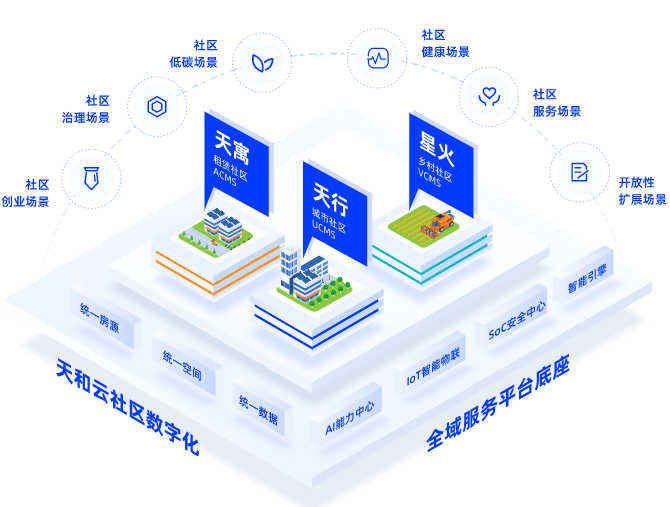
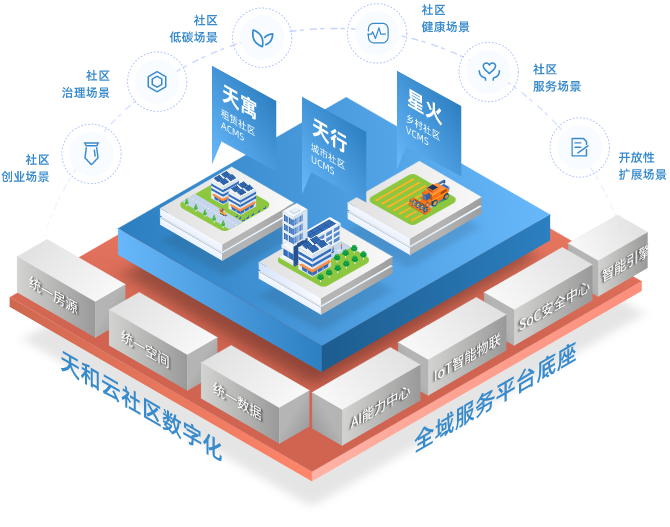
00

diff --git a/css/gw.css b/css/gw.css
@@ -710,7 +710,7 @@ header {
   display: block;
   margin-top: -5px;
 }
-#tab-list{ width: 720px; position: relative;}
+#tab-list{ width: 670px;height: 507px; position: relative;}
  
 #ul1{height: 32px;position: absolute;right: 0;bottom:8px;font-size: 14px;display: flex;
   width: 160px;
@@ -718,7 +718,7 @@ header {
   justify-content: space-between;}
 #ul1 li{width:80px;display: inline-block;padding:0px 10px;line-height: 30px;text-align: center;border: 1px solid #c0d1ff; color:#666;background-color: #f7faff;}
 #ul1 li:hover{cursor: pointer;}
-#ul1 li.active{border: 1px solid #023aff; color:#023aff;background-color: #fff;} 
+#ul1 li.active{border: 1px solid #0067C0; color:#0067C0;background-color: #fff;} 
 #tab-list div{width: 100%;/* margin-top: 64px; */display: none;} 
 #tab-list .show{display: block;} #tab-list .hide{display: none;}
 
@@ -737,7 +737,7 @@ header {
   justify-content: space-between;}
 #ul2 li{width:80px;display: inline-block;padding:0px 10px;line-height: 30px;text-align: center;border: 1px solid #c0d1ff; color:#666;background-color: #f7faff;}
 #ul2 li:hover{cursor: pointer;}
-#ul2 li.active{border: 1px solid #023aff; color:#023aff;background-color: #fff;} 
+#ul2 li.active{border: 1px solid #0067C0; color:#0067C0;background-color: #fff;} 
 #tab-list2 .div{display: none;}  
 #tab-list2 .show{display: block;} #tab-list2 .hide{display: none;}
 

diff --git a/index.html b/index.html
@@ -178,12 +178,12 @@
             </ul>
             <div class="show">
               <ul>
-                <li><img src="images/t1.png" width="100%"></li>
+                <li><img src="images/t1.png" width="670" height="507"></li>
               </ul>
             </div>
             <div>
               <ul>
-                <li><img src="images/t2.jpg" width="100%"></li>
+                <li><img src="images/t2.jpg" width="670" height="507"></li>
               </ul>
             </div>
           </div>
